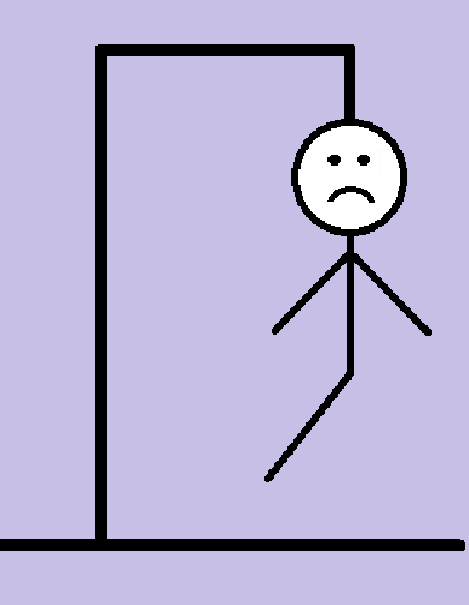
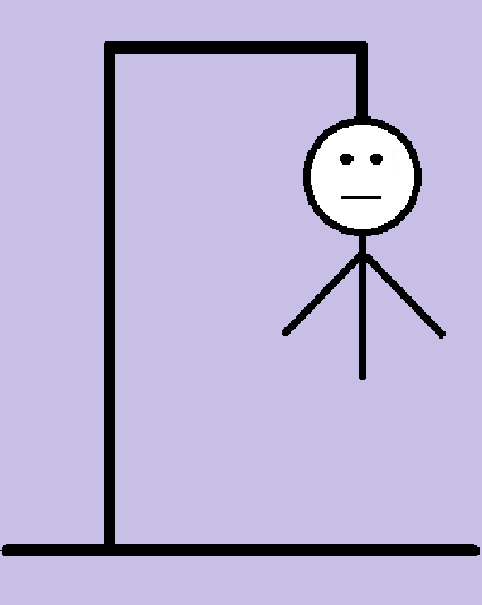
works

diff --git a/src/main/java/at/ac/hcw/hangman/GameController.java b/src/main/java/at/ac/hcw/hangman/GameController.java
@@ -1,27 +1,83 @@
 package at.ac.hcw.hangman;
 
+import at.ac.hcw.hangman.model.Difficulty;
+import at.ac.hcw.hangman.model.HangmanGame;
 import javafx.event.ActionEvent;
 import javafx.fxml.FXML;
 import javafx.fxml.FXMLLoader;
 import javafx.scene.Node;
 import javafx.scene.Parent;
 import javafx.scene.Scene;
+import javafx.scene.control.Button;
+import javafx.scene.control.Label;
+import javafx.scene.image.Image;
+import javafx.scene.image.ImageView;
 import javafx.scene.layout.Pane;
 import javafx.stage.Stage;
 
 import java.io.IOException;
+import java.io.InputStream;
 import java.util.Objects;
 
-public class GameController {
+import static at.ac.hcw.hangman.WordGiver.getWord;
+import at.ac.hcw.hangman.model.Difficulty;
 
-    @FXML
-    private Pane gamewon;
+public class GameController {
 
     @FXML
     private Pane gamewin;
 
     @FXML
+    private Pane gamelost;
+
+    @FXML
     private Pane pausemenu;
+
+    @FXML
+    private Label displayWord;
+
+    @FXML
+    private ImageView live1;
+    @FXML
+    private ImageView live2;
+    @FXML
+    private ImageView live3;
+    @FXML
+    private ImageView live4;
+    @FXML
+    private ImageView live5;
+    @FXML
+    private ImageView live6;
+
+    @FXML
+    private ImageView gallows;
+
+
+
+    private HangmanGame game;
+    private Difficulty difficulty;
+    private String player;
+    private String word;
+
+
+    public void setGameData(String player,Difficulty difficulty) {
+        this.player = player;
+        this.difficulty = difficulty;
+
+        int multiplier = switch (difficulty) {
+            case EASY -> 1;
+            case MEDIUM -> 2;
+            case HARD -> 3;
+        };
+        word = getWord(multiplier);
+
+        this.game = new HangmanGame(this.word,this.difficulty);
+        System.out.println("Word loaded: " + this.word);
+        System.out.println("Word loaded: " + game.getDisplayWord());
+
+        displayWord.setText(game.getDisplayWord());
+
+    }
 
 
     @FXML
@@ -93,6 +149,89 @@ public class GameController {
     public void quitButton(ActionEvent event) {
         Stage stage = (Stage) ((Node) event.getSource()).getScene().getWindow();
         stage.close();
+    }
+
+    @FXML
+    private void handleLetterClick(ActionEvent event) {
+        Button clickedButton = (Button) event.getSource();
+        String letter = clickedButton.getText();
+
+        System.out.println("Clicked: " + letter.charAt(0));
+        clickedButton.setDisable(true);
+
+        boolean guess = game.guess(letter.charAt(0));
+
+        if (guess){
+            // letter is in word
+            // Change display word
+            displayWord.setText(game.getDisplayWord());
+
+        }
+        else {
+            // letter is not in word
+            int lives = game.getRemainingLives();
+            Image image;
+            switch (lives) {
+                case 5:
+                    live1.setVisible(false);
+                    image = new Image(
+                            Objects.requireNonNull(getClass().getResourceAsStream("/at/ac/hcw/hangman/view/images/2.png"))
+                    );
+                    gallows.setImage(image);
+                    break;
+
+                case 4:
+                    live2.setVisible(false);
+                    image = new Image(
+                            Objects.requireNonNull(getClass().getResourceAsStream("/at/ac/hcw/hangman/view/images/3.png"))
+                    );
+                    gallows.setImage(image);
+                    break;
+
+                case 3:
+                    live3.setVisible(false);
+                    image = new Image(
+                            Objects.requireNonNull(getClass().getResourceAsStream("/at/ac/hcw/hangman/view/images/4.png"))
+                    );
+                    gallows.setImage(image);
+                    break;
+
+                case 2:
+                    live4.setVisible(false);
+                    image = new Image(
+                            Objects.requireNonNull(getClass().getResourceAsStream("/at/ac/hcw/hangman/view/images/5.png"))
+                    );
+                    gallows.setImage(image);
+                    break;
+
+                case 1:
+                    live5.setVisible(false);
+                    image = new Image(
+                            Objects.requireNonNull(getClass().getResourceAsStream("/at/ac/hcw/hangman/view/images/6.png"))
+                    );
+                    gallows.setImage(image);
+                    break;
+
+                case 0:
+                    live6.setVisible(false);
+                    image = new Image(
+                            Objects.requireNonNull(getClass().getResourceAsStream("/at/ac/hcw/hangman/view/images/7.png"))
+                    );
+                    gallows.setImage(image);
+                    gamelost.setVisible(true);
+                    break;
+
+            }
+        }
+        if(game.isWon()) {
+            gamewin.setVisible(true);
+
+            // TODO GET THE SCORE USING THE SCORE FUNCTION
+            int score = 100;
+            SaveScore.saveScore(player, score);
+        }
+
+
     }
 
 

diff --git a/src/main/java/at/ac/hcw/hangman/SetupController.java b/src/main/java/at/ac/hcw/hangman/SetupController.java
@@ -6,12 +6,59 @@ import javafx.fxml.FXMLLoader;
 import javafx.scene.Node;
 import javafx.scene.Parent;
 import javafx.scene.Scene;
+import javafx.scene.control.Button;
+import javafx.scene.control.TextArea;
+import javafx.scene.control.TextField;
+import javafx.scene.control.ToggleButton;
 import javafx.stage.Stage;
 
 import java.io.IOException;
 import java.util.Objects;
 
+import at.ac.hcw.hangman.model.Difficulty;
+
 public class SetupController {
+
+    @FXML
+    protected ToggleButton easyButton;
+
+    @FXML
+    protected ToggleButton mediumButton;
+
+    @FXML
+    protected ToggleButton difficultButton;
+
+    private Difficulty difficulty = Difficulty.EASY;
+
+    @FXML
+    protected TextField nickname;
+
+    @FXML
+    protected void onEasyMode(ActionEvent event){
+        easyButton.setDisable(true);
+        mediumButton.setDisable(false);
+        difficultButton.setDisable(false);
+        difficulty = Difficulty.EASY;
+
+    }
+
+    @FXML
+    protected void onMediumMode(ActionEvent event){
+        easyButton.setDisable(false);
+        mediumButton.setDisable(true);
+        difficultButton.setDisable(false);
+        difficulty = Difficulty.MEDIUM;
+
+    }
+
+    @FXML
+    protected void onDifficultMode(ActionEvent event){
+        easyButton.setDisable(false);
+        mediumButton.setDisable(false);
+        difficultButton.setDisable(true);
+        difficulty = Difficulty.HARD;
+
+    }
 
     @FXML
     protected void onStartGameClick(ActionEvent event) {
@@ -19,7 +66,16 @@ public class SetupController {
             FXMLLoader fxmlLoader = new FXMLLoader(
                     Objects.requireNonNull(getClass().getResource("view/game-view.fxml"))
             );
+
             Parent root = fxmlLoader.load();
+
+            String name = nickname.getText();
+            System.out.println("Player: " + name);
+            System.out.println("Difficulty: " + difficulty);
+
+            GameController controller = fxmlLoader.getController();
+            controller.setGameData( name, difficulty);
+
 
             Stage stage = (Stage) ((Node) event.getSource()).getScene().getWindow();
             Scene scene = new Scene(root, 600, 450);

diff --git a/src/main/java/at/ac/hcw/hangman/HelloApplication.java b/src/main/java/at/ac/hcw/hangman/HelloApplication.java
@@ -16,7 +16,7 @@ public class HelloApplication extends Application {
     public void start(Stage stage) throws IOException {
         String words = WordGiver.getWord(1);
         System.out.println("Word: " + words);
-        SaveScore.saveScore("Anna", 150);
+        SaveScore.saveScore("Ben", 150);
         SaveScore.saveScore("Ben", 250);
 
         FXMLLoader fxmlLoader = new FXMLLoader(HelloApplication.class.getResource("view/hello-view.fxml"));
